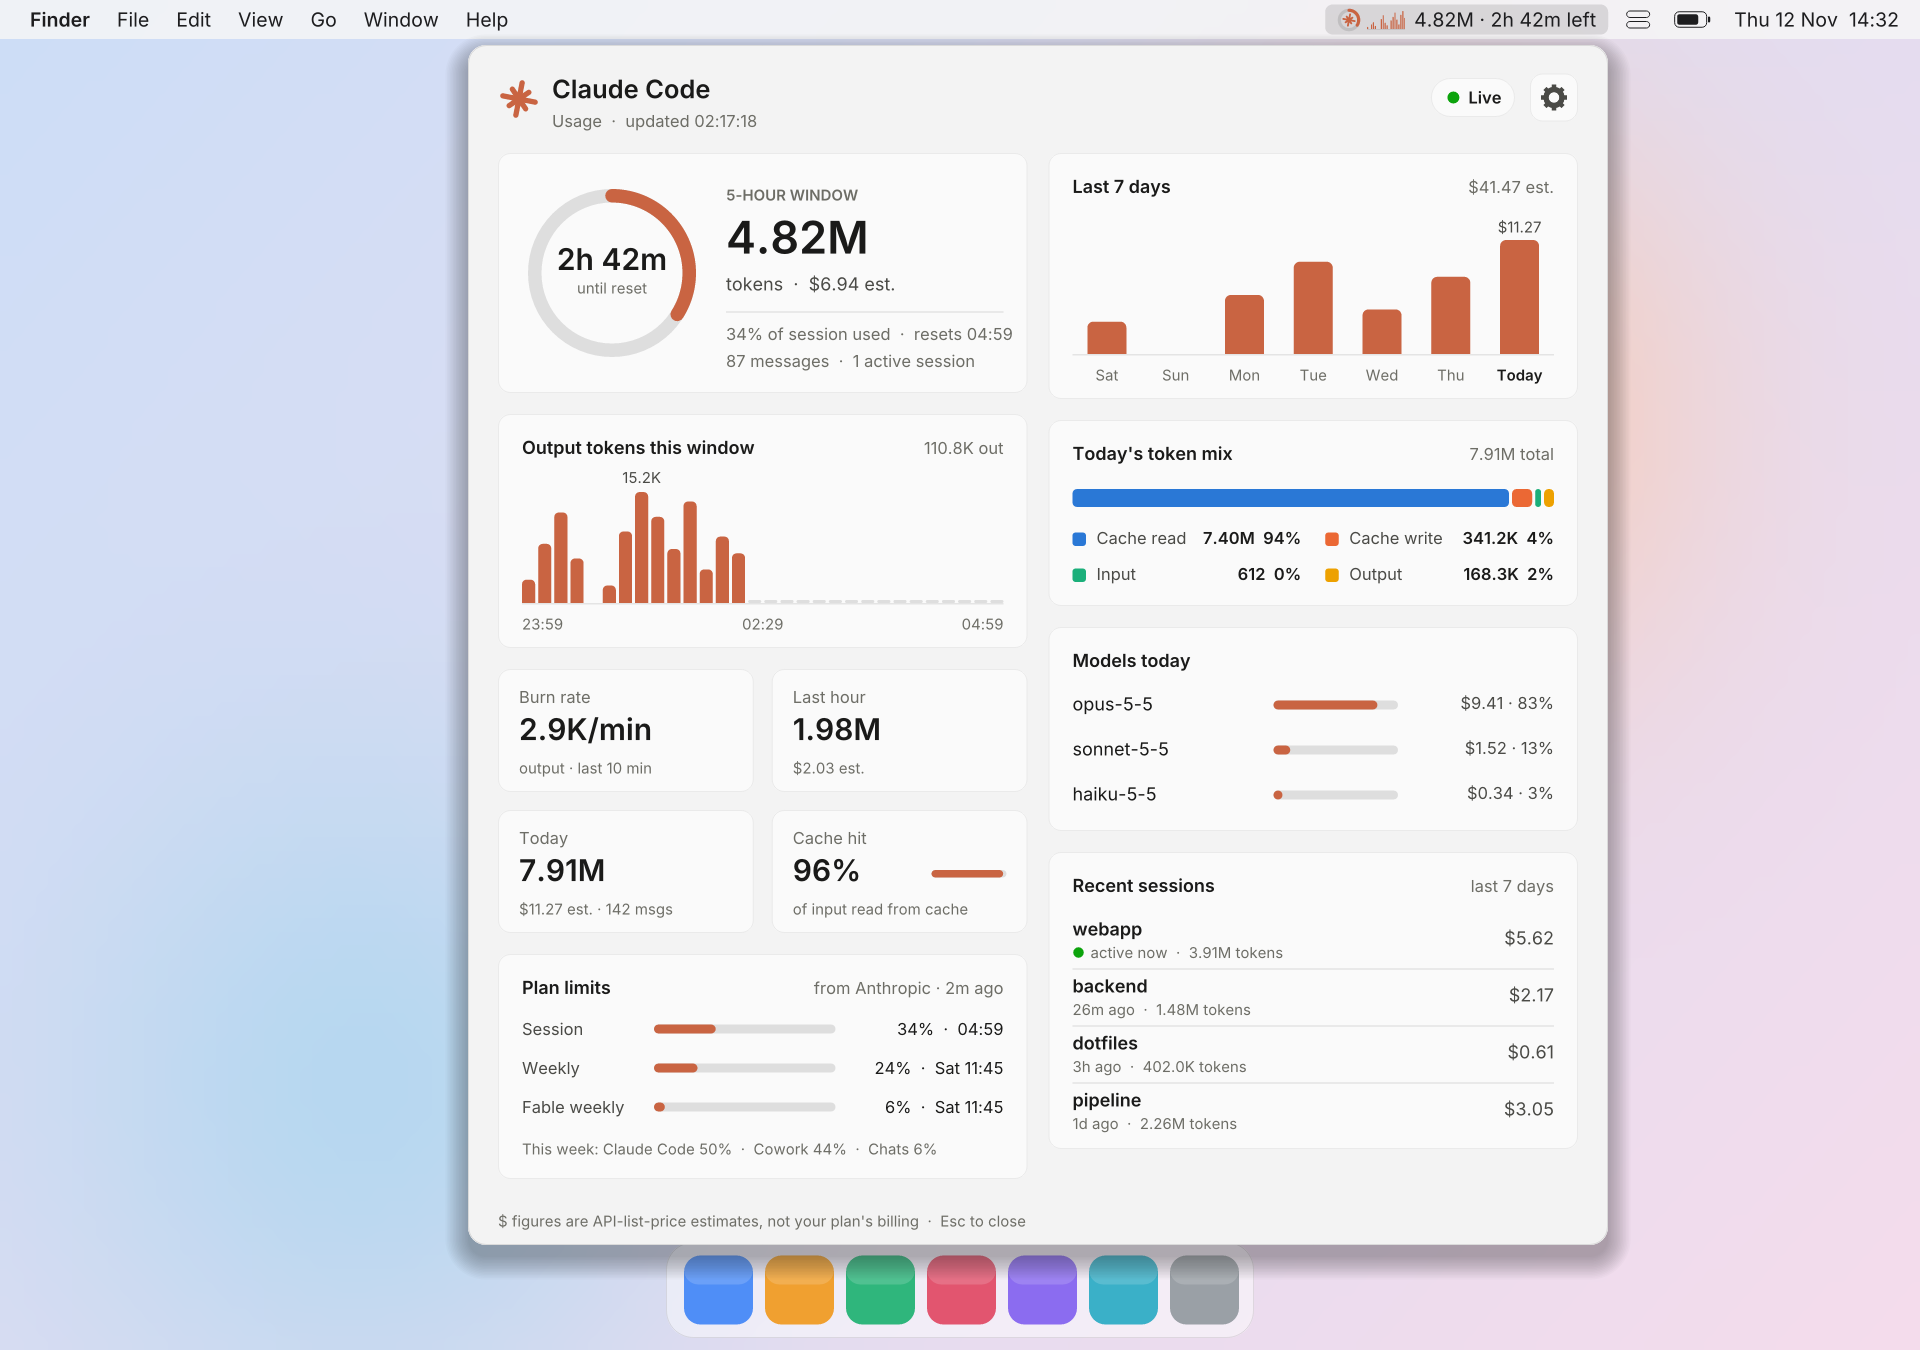
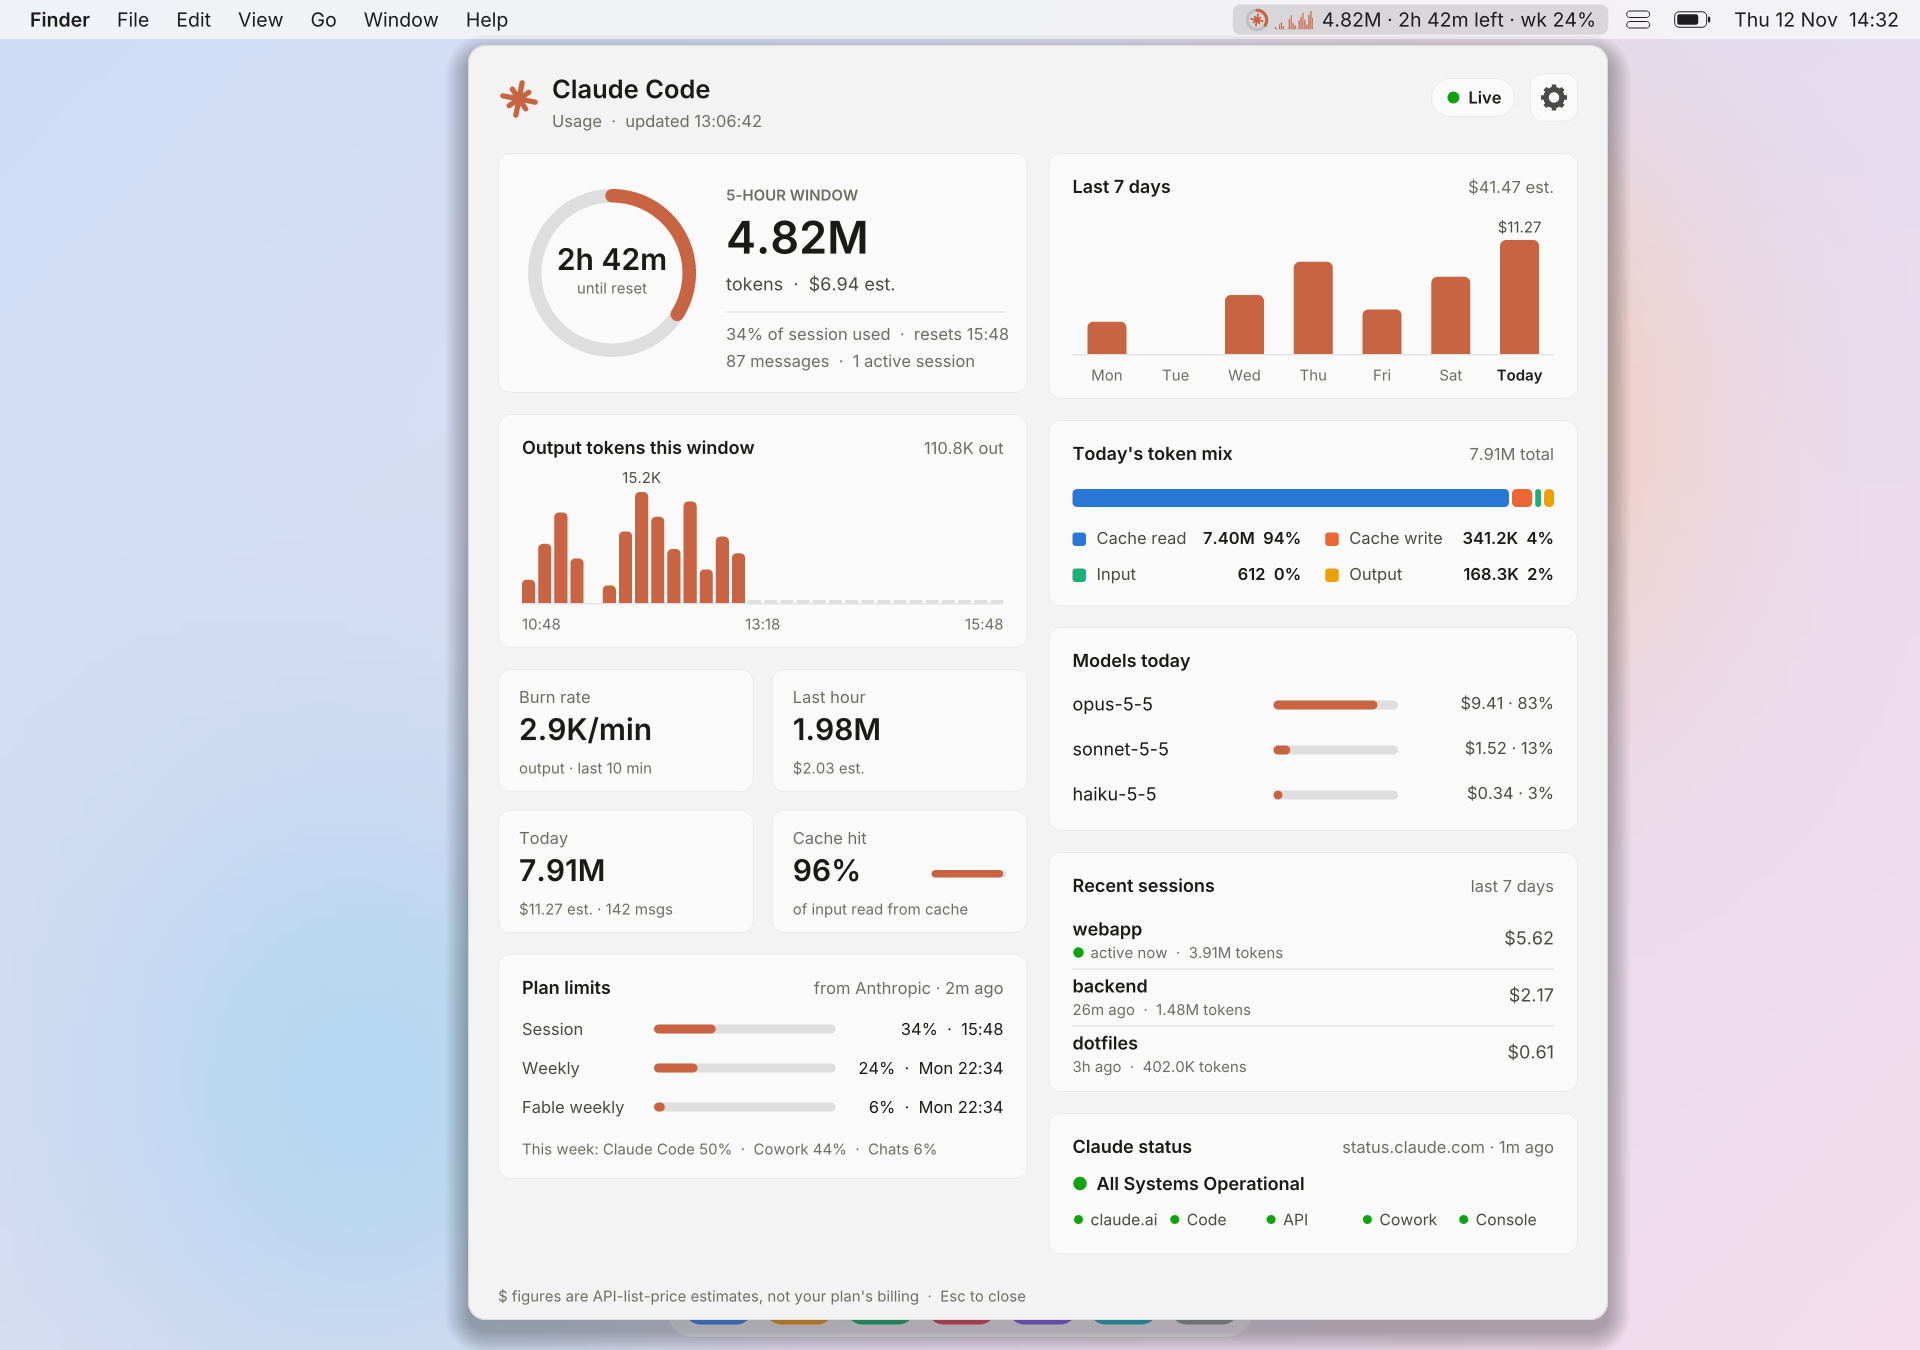
README: document the status card, weekly ring and offline cache
- Feature list: the double ring (session outside, weekly inside), the
  "wk N%" text, the status alert dot, the plan limits and Claude status
  cards, and "last known" readings when offline
- Settings: the Claude status switch, service_status in the config
  example, and the two cache files
- How it works: the two background checks and their intervals
- Regenerate the screenshots in docs/ (double ring, status card,
  Settings switch)
- Screenshot scene: the mock macOS menu bar shows "wk N%" like the real
  menu-bar title

diff --git a/src/view/shots.rs b/src/view/shots.rs
@@ -279,11 +279,15 @@ fn macos(fonts: &Fonts, th: &'static Theme, s: &Stats, light: bool, path: &Path)
 
     let bar_th: &Theme = if light { &LIGHT } else { &DARK };
     let icon = draw_status_icon(fonts, bar_th, s, k, 16.0, true);
-    let title = format!(
+    // same text as the real menu-bar title (App::summary)
+    let mut title = format!(
         "{} · {} left",
         fmt_tokens(s.block.all as f64),
         fmt_left(s.block_left)
     );
+    if let Some(p) = s.weekly_percent() {
+        title = format!("{title} · wk {p:.0}%");
+    }
     let tw = c.tw(&title, 13.0, R);
     let iw = icon.pm.width() as f32 / k;
     let item_w = 8.0 + iw + 6.0 + tw + 8.0;

diff --git a/README.md b/README.md
@@ -29,26 +29,35 @@ runtime to install.
 
 - **Readout:** on the Windows taskbar (next to the Widgets button, or by the
   tray), in the macOS menu bar, or in the Linux tray. It shows:
-  - a ring for how much of the 5-hour usage window has passed
-  - tokens used in the window and the time left until it resets
+  - a double ring: the outer ring for the 5-hour session, the softer inner
+    ring for the weekly limit
+  - tokens used in the window, the time left until it resets, and the weekly
+    percentage (`2h 42m left · wk 24%`)
   - a sparkline of output tokens over the last 60 minutes (Windows and macOS)
+  - a small coloured dot on the ring while status.claude.com reports a problem
 - **Drawer:** click the readout to open it. It shows:
   - a gauge for the 5-hour window and its activity chart
   - stat tiles: burn rate, last hour, today, and cache hit rate
+  - your plan limits: session, weekly and per-model weekly
   - cost per day for the last 7 days
   - today's token mix and usage per model
   - recent sessions
+  - Claude's service status: claude.ai, Claude Code, the API, Cowork and the
+    Console, plus open incidents
 
   The gear button at its top right switches the drawer to **Settings**.
 
 - **Plan limits:** your real session and weekly limits, the same numbers
   Claude Code's `/usage` shows. They include usage on your phone, the web and
   other computers.
+- **Works offline:** the last known limits and status are kept on disk, so the
+  widget shows them (marked "last known") when it can't reach the network.
 
 Token counts, costs and charts come from Claude Code's local transcripts
 (`~/.claude/projects/**/*.jsonl`, or `$CLAUDE_CONFIG_DIR/projects`). The plan
-limits come from Anthropic; see [Plan limits](#plan-limits) for exactly what
-that involves, and how to turn it off.
+limits come from Anthropic and the service status from status.claude.com; see
+[Plan limits](#plan-limits) and [Claude status](#claude-status) for exactly
+what that involves, and how to turn each off.
 
 ## Screenshots
 
@@ -72,7 +81,7 @@ press **Esc**, to go back:
 
 <picture>
   <source media="(prefers-color-scheme: dark)" srcset="docs/desktop-settings-dark.png">
-  <img src="docs/desktop-settings-light.png" alt="Windows 11 desktop with the drawer showing Settings: theme, position, start with Windows, refresh interval and the built-in price table">
+  <img src="docs/desktop-settings-light.png" alt="Windows 11 desktop with the drawer showing Settings: theme, position, start with Windows, refresh interval, plan limits and Claude status switches, and the built-in price table">
 </picture>
 
 ### macOS
@@ -214,8 +223,9 @@ Click the gear at the drawer's top right. Changes are saved as you make them.
 
 - **General:** theme, position (Windows only: next to the Widgets button or
   the tray icons), **Start with Windows** / **Start at login**, the refresh
-  interval (1, 3, 5 or 10 seconds), and
-  [Plan limits from Anthropic](#plan-limits).
+  interval (1, 3, 5 or 10 seconds),
+  [Plan limits from Anthropic](#plan-limits), and
+  [Claude status](#claude-status).
 - **Prices:** a read-only table of the built-in prices (see below).
 - **Open transcripts folder** and **Quit widget**.
 
@@ -231,9 +241,14 @@ Settings are stored in `config.json` in:
   "dock": "left",
   "theme": "system",
   "refresh_ms": 3000,
-  "plan_limits": true
+  "plan_limits": true,
+  "service_status": true
 }
 ```
+
+The same folder holds `limits-cache.json` and `status-cache.json`, the last
+good plan limits and service status (see below). Deleting them is safe; they
+are rewritten on the next successful check.
 
 ## Plan limits
 
@@ -403,6 +418,11 @@ The same links are at the bottom of the widget's **Settings**. **Bitcoin** opens
   responses by message ID. Without [plan limits](#plan-limits), it estimates
   the 5-hour window from message timing, so the reset time may differ from
   Anthropic's own.
+- **Network:** two background checks, each on its own thread and each with a
+  Settings switch: plan limits from Anthropic every 5 minutes, and the public
+  status page every 2 minutes. Both also run when the drawer opens (at most
+  once a minute and once every 30 seconds). The last good reply of each is
+  cached on disk and shown, with its age, when a check fails.
 - **Placement:** the readout is a separate borderless window that sits on top
   of the taskbar. Windows 11 has no public API for adding items to the taskbar.
   The widget finds the Widgets button through UI Automation and sets the
